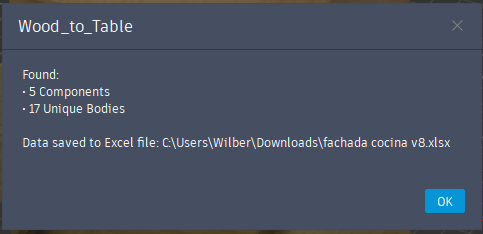
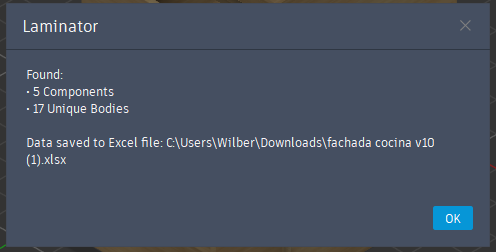
Setup steps added on README

diff --git a/README.md b/README.md
@@ -1,4 +1,4 @@
-# Wood To Table
+# Laminator
 
 This is a Fusion 360 script that generates an Excel table with the necessary cuts for wood laminate, based on the size of each body.
 
@@ -7,6 +7,15 @@ This is a Fusion 360 script that generates an Excel table with the necessary cut
 Example:  
 ![alt text](images/example.png)
 
+## Setup
+
+1. Go to Scripts location
+    ```
+    C:\Users\<USER>\AppData\Roaming\Autodesk\Autodesk Fusion 360\API\Scripts
+    ```
+2. Clone the repository
+3. Add the script
+  ![alt text](images/setup.png)
 ## Guide
 
 ### 1. Design your furniture
@@ -20,8 +29,8 @@ As a personal recommendation, consider also modeling the surrounding environment
 
 ![alt text](images/screen1.png)
 
-### 3. Specify the furniture quantity
-* The default value is 1.
+### 3. Run the script
+* Specify the furniture quantity, default value is 1.
 
 ![alt text](images/screen2.png)
 
